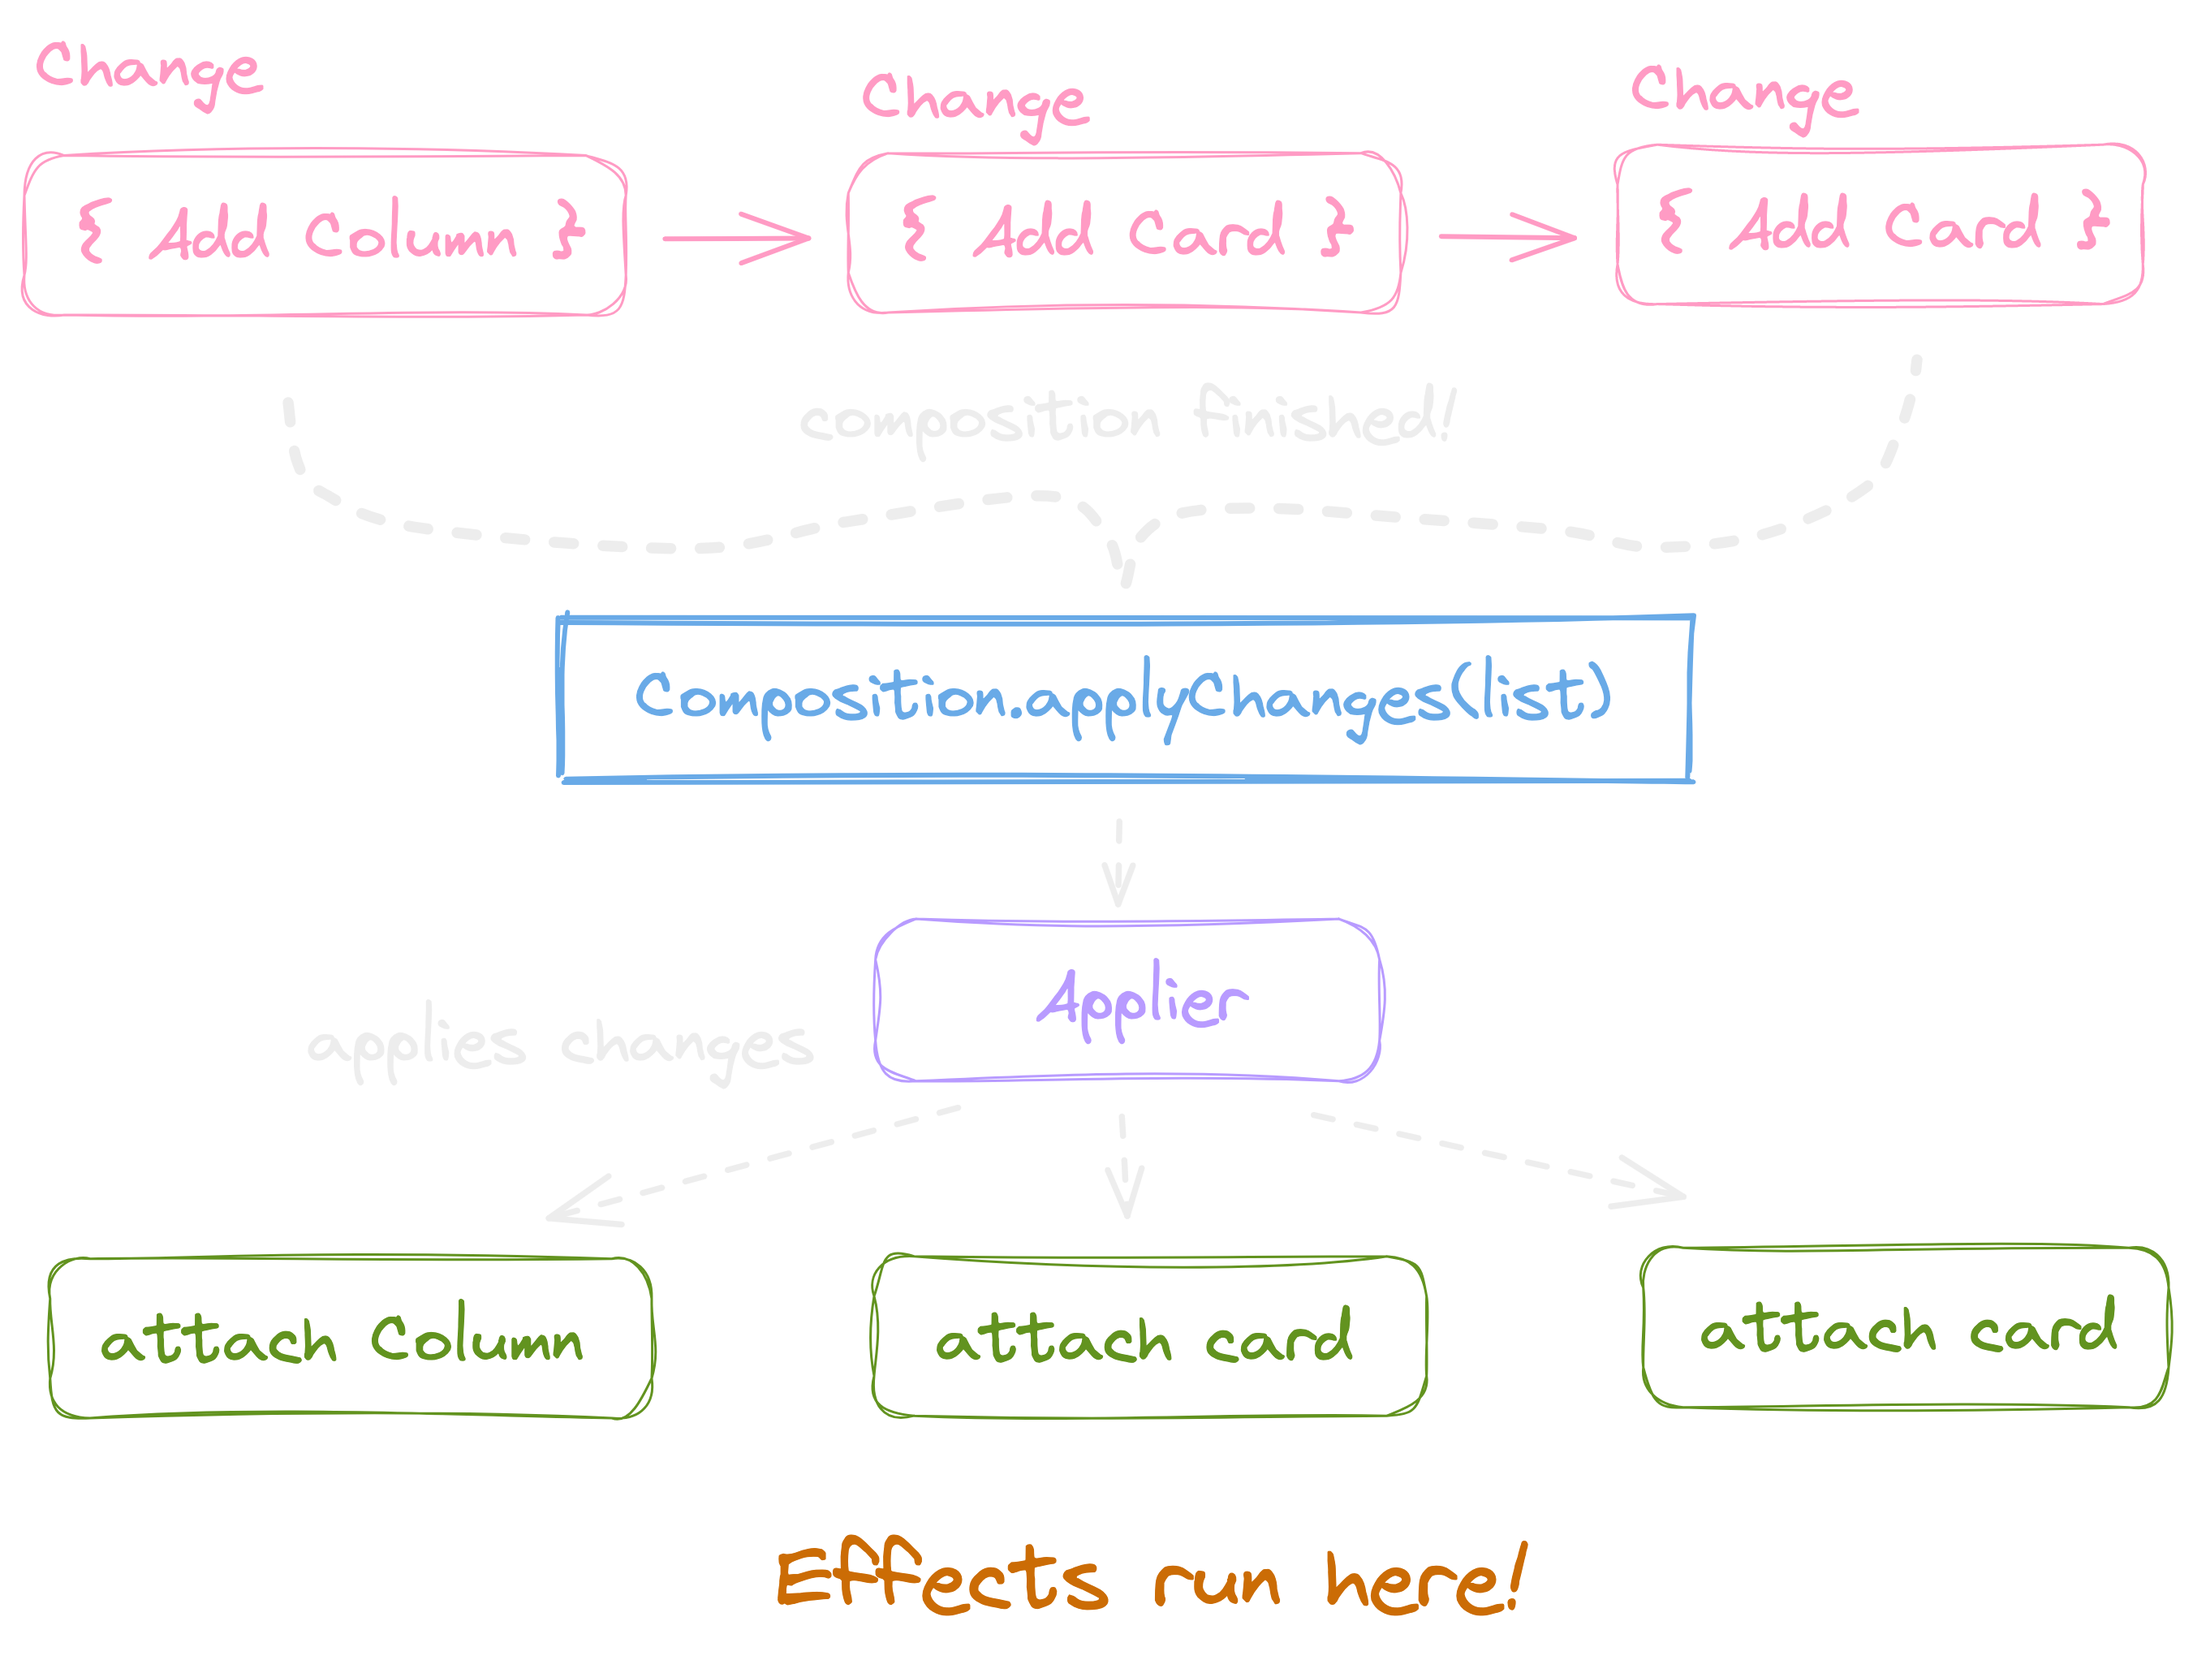
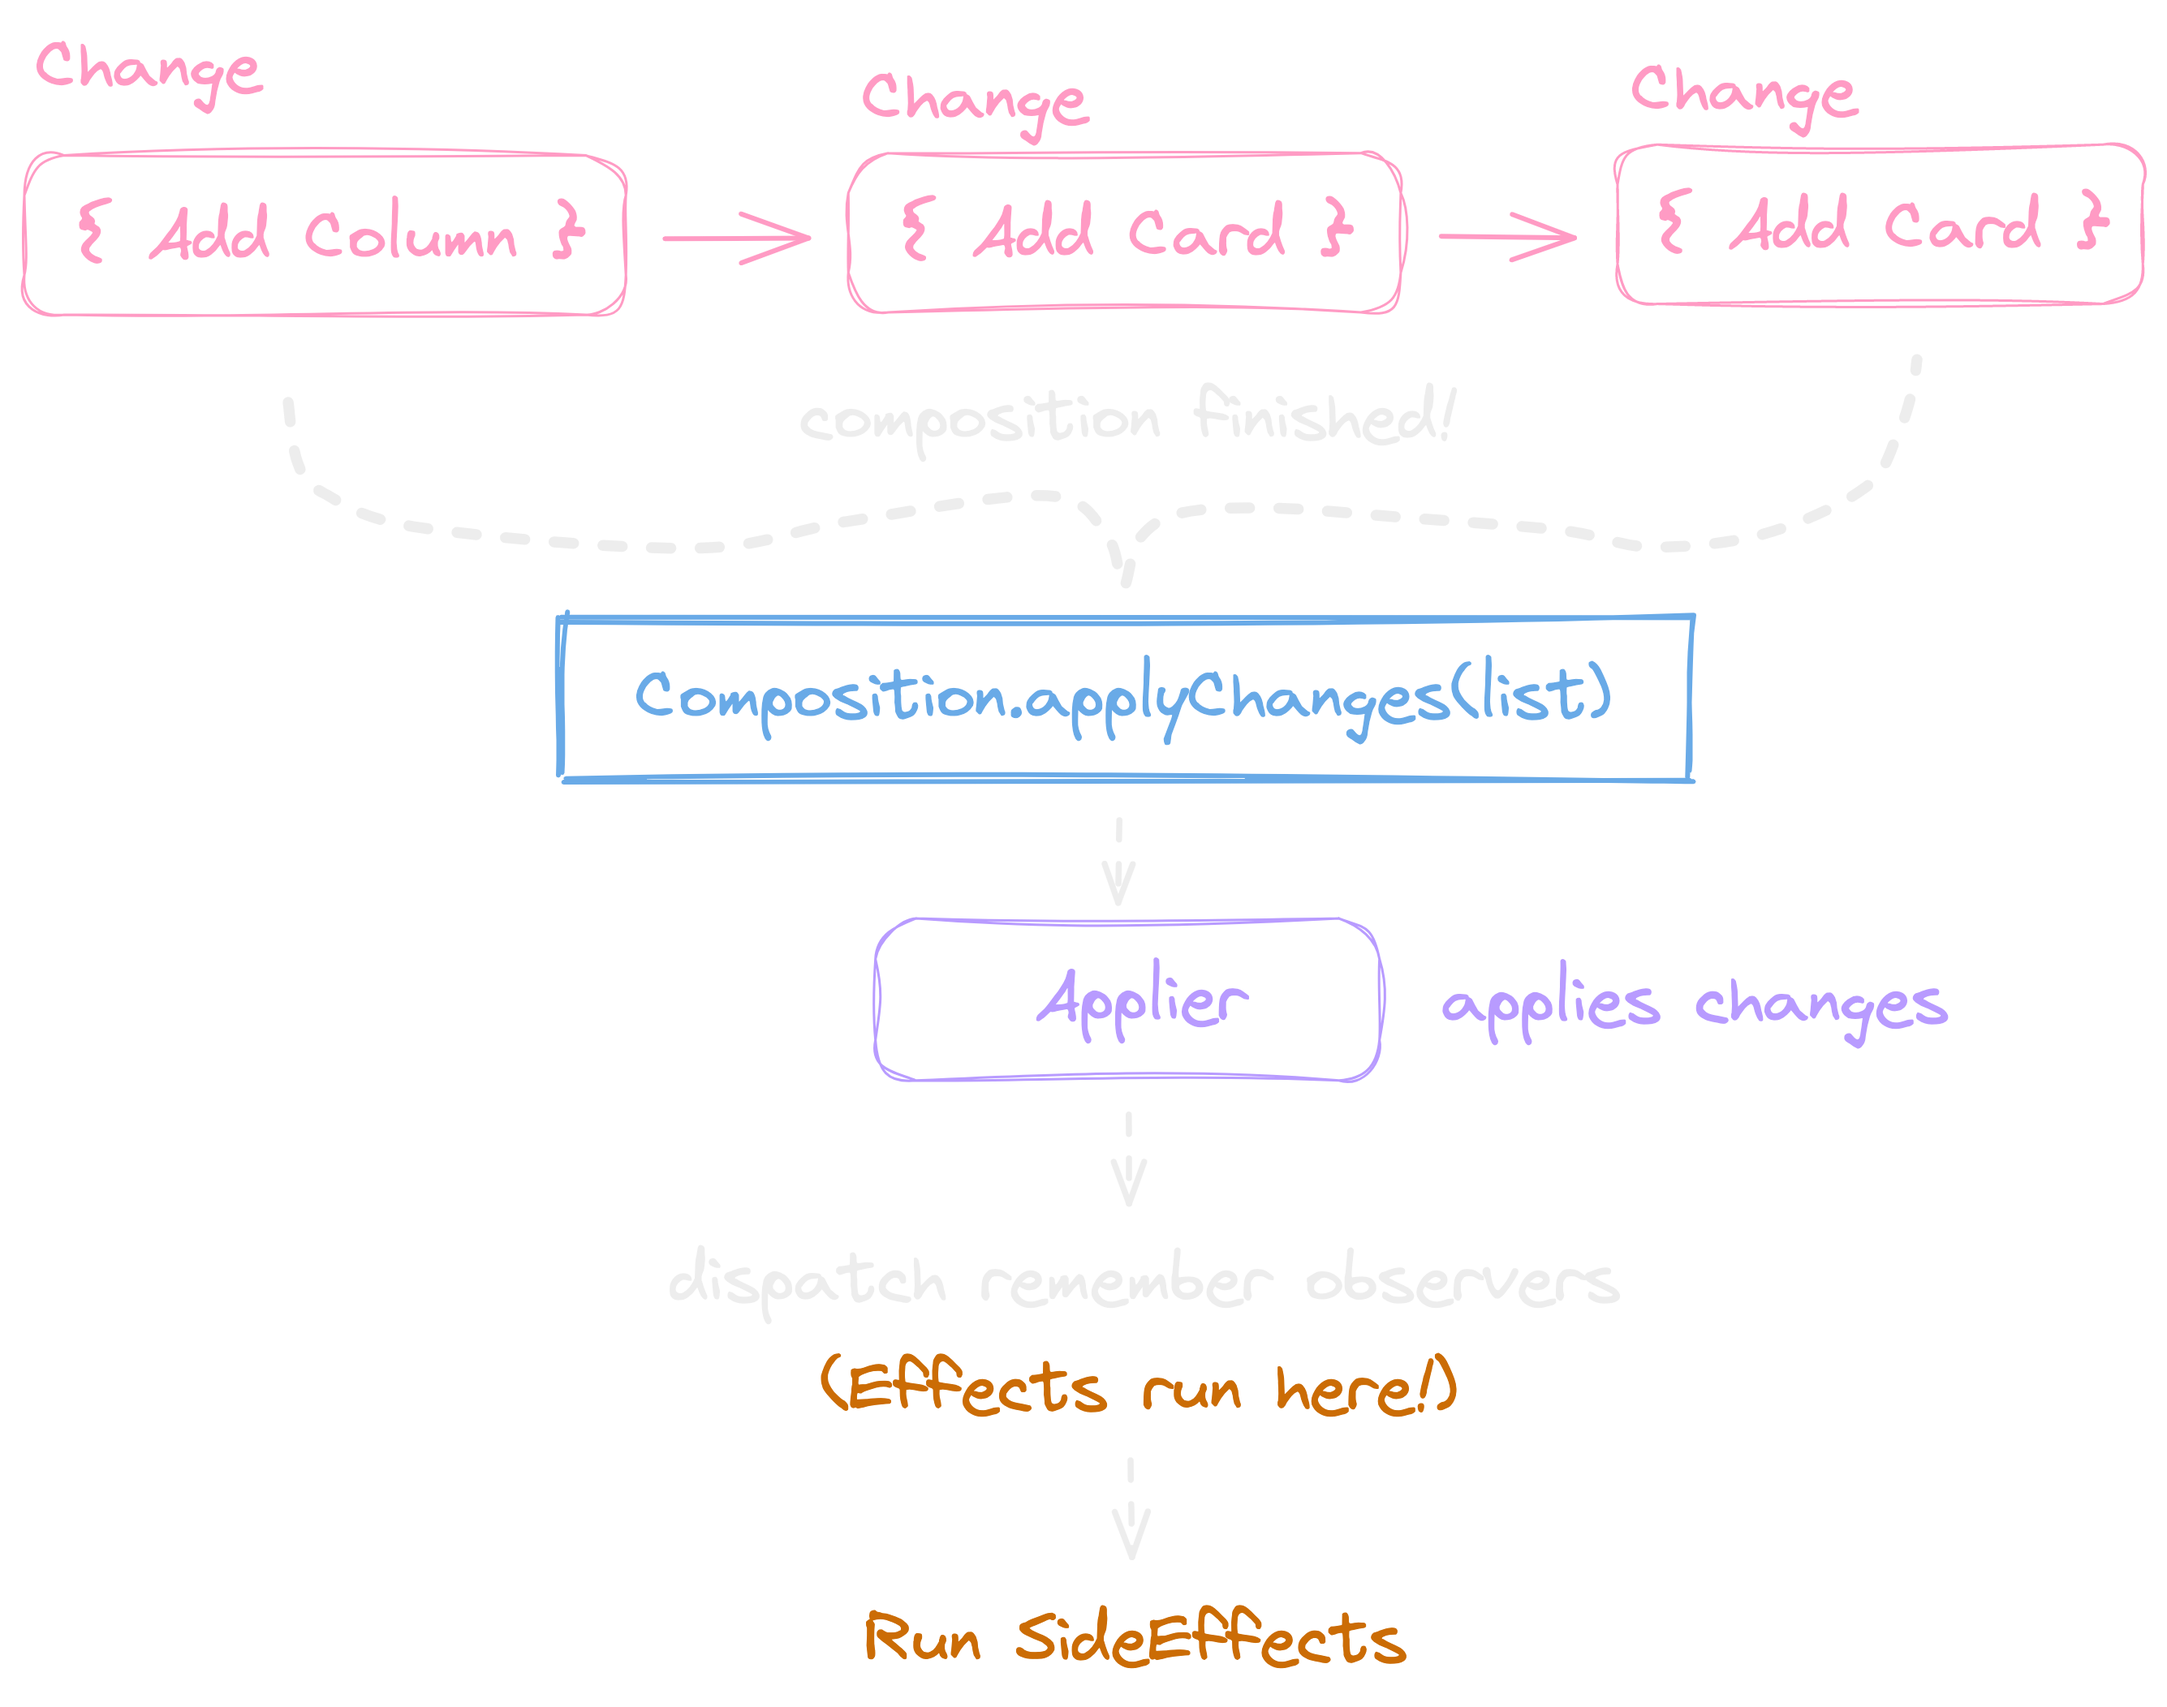
Up to date.

diff --git a/slides/lesson8.md b/slides/lesson8.md
@@ -212,11 +212,72 @@ fun SpeakersScreen(eventId: String, service: Service) {
 
 #### **Effects in the Compose runtime**
 
-* Triggered after all changes to the tree are applied
-* Triggered in the same order they are stored
-
 <img src="slides/images/closing_the_circle_1.png" width="900">
 
 ---
 
 <img src="slides/images/closing_the_circle_4.png" width="800">
+
+---
+
+#### **Dispatching remember observers**
+
+* Effects are `RememberObserver`s
+* E.g: `DisposableEffect` 👇
+
+```kotlin
+private class DisposableEffectImpl(
+    private val effect: DisposableEffectScope.() -> DisposableEffectResult
+) : RememberObserver {
+    private var onDispose: DisposableEffectResult? = null
+
+    override fun onRemembered() {
+        onDispose = InternalDisposableEffectScope.effect()
+    }
+
+    override fun onForgotten() {
+        onDispose?.dispose()
+        onDispose = null
+    }
+
+    override fun onAbandoned() {
+        // Nothing to do as [onRemembered] was not called.
+    }
+}
+```
+
+---
+
+#### **Dispatching remember observers**
+
+```kotlin
+internal class LaunchedEffectImpl(
+    parentCoroutineContext: CoroutineContext,
+    private val task: suspend CoroutineScope.() -> Unit
+) : RememberObserver {
+    private val scope = CoroutineScope(parentCoroutineContext)
+    private var job: Job? = null
+
+    override fun onRemembered() {
+        job?.cancel("Old job was still running!")
+        job = scope.launch(block = task)
+    }
+
+    override fun onForgotten() {
+        job?.cancel()
+        job = null
+    }
+
+    override fun onAbandoned() {
+        job?.cancel()
+        job = null
+    }
+}
+```
+
+---
+
+#### **Where to put our effects?** 🤔
+
+* Composable function body or `ViewModel`?
+* Think of testability, decoupling Composables from business logic
